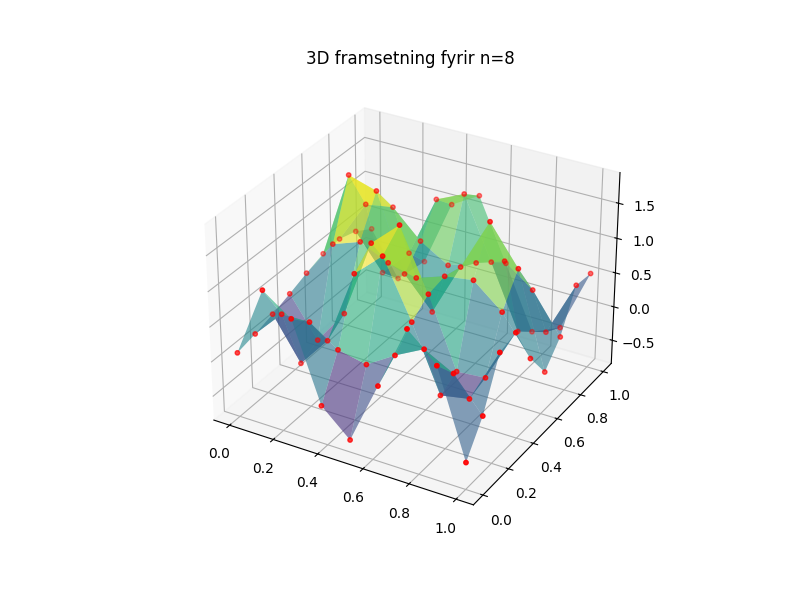
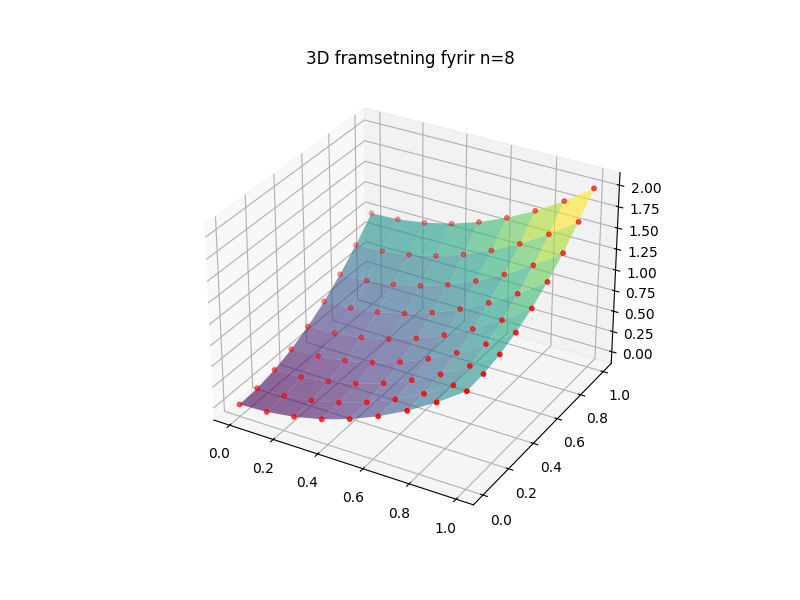
romberg1 breytt, sem er trapisuregla

Changed region(s): [[0.2812, 0.24, 0.8438, 0.78], [0.4375, 0.21, 0.4688, 0.24]]

diff --git a/romberg3.py b/romberg3.py
@@ -9,7 +9,7 @@ test_functions = {
     "Flókið sveiflukennt fall": lambda x, y: np.sin(10*x) * np.cos(10*y) + np.exp(-5 * (x**2 + y**2)),
     "Gaussískt fall": lambda x, y: np.exp(-10 * ((x - 0.3)**2 + (y - 0.7)**2)),
     "Margliðu–veldisvísis fall": lambda x, y: (x**3 + y**4) * np.exp(-x - y),
-    "Sveiflukennt ripple": lambda x, y: np.sin(5 * np.pi * x) * np.sin(5 * np.pi * y),
+    "Sveiflukennt gáru": lambda x, y: np.sin(5 * np.pi * x) * np.sin(5 * np.pi * y),
     "Samsett fall með háum sveiflum": lambda x, y: np.sin(10*x) * np.cos(10*y) + np.exp(-5 * ((x-0.5)**2 + (y-0.5)**2)) + 0.5 * np.exp(-10 * ((x-0.2)**2 + (y-0.8)**2)),
 }
 
@@ -21,12 +21,22 @@ def trapezoidal_2d(f, a, b, c, d, n):
     hx = (b - a) / n
     hy = (d - c) / n
 
-    integral = 0
-    for i in range(n):
-        for j in range(n):
-            integral += f(x[i], y[j]) * hx * hy
+    integral = 0.0
+    for i in range(n + 1):
+        for j in range(n + 1):
+            fxij = f(x[i], y[j])
 
-    return integral
+            # Determine weight
+            if (i == 0 or i == n) and (j == 0 or j == n):
+                weight = 1
+            elif (i == 0 or i == n) or (j == 0 or j == n):
+                weight = 2
+            else:
+                weight = 4
+
+            integral += weight * fxij
+
+    return (hx * hy / 4) * integral
 
 def romberg_trapezoidal_2d(f, a, b, c, d, max_iter=5):
     R = np.zeros((max_iter, max_iter))
@@ -112,8 +122,8 @@ print("\nSamanburður á Romberg Heildun\n")
 print(df_results.to_string(index=False))
 
 plt.figure(figsize=(8,5))
-plt.bar(df_results["Fall"], df_results["Trapisu skekkja"], label="Trapisu skekkja", alpha=0.7)
-plt.bar(df_results["Fall"], df_results["Þríhyrnings skekkja"], label="Þríhyrnings skekkja", alpha=0.7)
+plt.bar(df_results["Fall"], df_results["Trapisu skekkja"], label="Trapisu skekkja", alpha=0.7 , color="skyblue")
+plt.bar(df_results["Fall"], df_results["Þríhyrnings skekkja"], label="Þríhyrnings skekkja", alpha=0.7,  color="darkorange")
 plt.xticks(rotation=45)
 plt.yscale("log")
 plt.ylabel("Skekkja")
@@ -122,10 +132,10 @@ plt.title("Samanburður á skekkju")
 plt.show()
 
 plt.figure(figsize=(8,5))
-plt.bar(df_results["Fall"], df_results["Þríhyrnings keyrslutími"], label="Þríhyrnings keyrslutími", alpha=0.7)
-plt.bar(df_results["Fall"], df_results["Trapisu keyrslutími"], label="Trapisu keyrslutími", alpha=0.7)
+plt.bar(df_results["Fall"], df_results["Þríhyrnings keyrslutími"], label="Þríhyrnings keyrslutími", alpha=0.7,  color="darkorange")
+plt.bar(df_results["Fall"], df_results["Trapisu keyrslutími"], label="Trapisu keyrslutími", alpha=0.7, color="skyblue")
 plt.xticks(rotation=45)
 plt.ylabel("Tími (s)")
 plt.legend()
-plt.title("Samanburður á reiknitíma")
+plt.title("Samanburður á keyrslutíma")
 plt.show()

diff --git a/romberg.py b/romberg.py
@@ -17,28 +17,37 @@ def exact_integral(f):
 
 def trapezoidal_2d(f, a, b, c, d, n, ax=None, plot_3d=False):
     """
-    Reiknar trapisu reglu nálgun fyrir heildi f yfir [a,b]x[c,d]. Plottar einnig.
-    n: fjöldi hlutbila, þarf að vera veldi af 2
+    Reiknar trapisu reglu nálgun fyrir heildi f yfir [a,b]x[c,d] með réttri vigtun.
     """
     x = np.linspace(a, b, n+1)
     y = np.linspace(c, d, n+1)
     hx = (b - a) / n
     hy = (d - c) / n
 
-    integral = 0
+    integral = 0.0
     grid_x, grid_y, grid_z = [], [], []
-    for i in range(n+1):
-        for j in range(n+1):
-            value = f(x[i], y[j])
-            integral += value * hx * hy
+
+    for i in range(n + 1):
+        for j in range(n + 1):
+            fxij = f(x[i], y[j])
+
+            if (i == 0 or i == n) and (j == 0 or j == n):
+                weight = 1
+            elif (i == 0 or i == n) or (j == 0 or j == n):
+                weight = 2
+            else:
+                weight = 4
+
+            integral += weight * fxij
             grid_x.append(x[i])
             grid_y.append(y[j])
-            grid_z.append(value)
+            grid_z.append(fxij)
 
-            # Plot trapezoidal regions if axis is provided
             if ax is not None:
                 rect = patches.Rectangle((x[i], y[j]), hx, hy, linewidth=1, edgecolor='red', facecolor='none')
                 ax.add_patch(rect)
+
+    integral *= (hx * hy) / 4.0
 
     if plot_3d:
         fig = plt.figure(figsize=(8, 6))
@@ -109,7 +118,7 @@ def romberg_2d(f, a, b, c, d, max_iter=5):
 a, b = 0, 1
 c, d = 0, 1
 
-test_function = lambda x, y: np.sin(10*x) * np.cos(10*y) + np.exp(-5 * ((x-0.5)**2 + (y-0.5)**2)) + 0.5 * np.exp(-10 * ((x-0.2)**2 + (y-0.8)**2))
+test_function = lambda x, y: x**2 + y**2
 
 result, R_table = romberg_2d(test_function, a, b, c, d, max_iter=5)
 print(f"Loka niðurstaða Romberg Heildunar: {result}")
